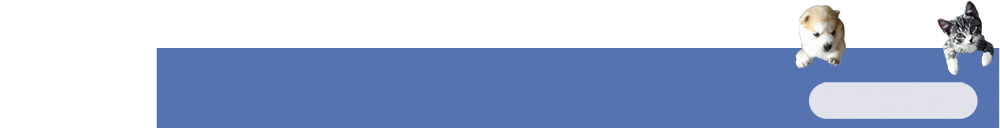
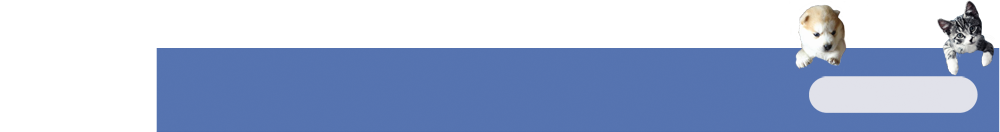
12-28 test 1
12-28 test 1

diff --git a/css/style-news.css b/css/style-news.css
@@ -93,7 +93,7 @@ html, body{
 #menu{
 	position: relative;
 	width: 980px;
-	height: 60px;
+	height: 68px;
 	margin-top: 10px;
 	padding: 10px;
 	padding-left: 0;
@@ -103,7 +103,7 @@ html, body{
 #menu #menulogo{
 	position: relative;
 	width: 128px;
-	height: 64px;
+	height: 72px;
 	margin-top: -12px;
 	margin-right: 10px;
 	padding: 0;
@@ -122,34 +122,43 @@ html, body{
 #menu #menuinterface .divoptions{
 	position: relative;
 	width: 96px;
-	height: 64px;
+	height: 72px;
 	margin-left: 4px;
-	margin-top: 4px;
+	margin-top: 0;
 	text-align: center;
 	float: left;
 }
 
 #menu .search-input2{
 	margin-left: 48px;
-	margin-top: 30px;
+	margin-top: 24px;
 	width: 96px;
 	height: 22px;
 	position: relative;
 	background-color: #e1e2ea;
+	color: #222141;
+	fontcolor: #222141;
 	border: none;
 }
 #menu #menuinterface #searchpaw{
 	margin-left: 8px;
-	margin-top: 28px;
+	margin-top: 22px;
 	position: absolute;
 	cursor: pointer;
+}
+input::-webkit-input-placeholder {
+    color: #222141;
+    font-weight: bold;
+}
+input:-moz-placeholder {
+    color: #222141;
+    font-weight: bold;
 }
 
 #content{
 	position: relative;
 	width: 1000px;
-	margin: 0;
-	padding: 0;
+	margin-top: -8px;
 	background-color: #e1e2ea;
 }
 /*
@@ -208,7 +217,7 @@ html, body{
 	border: 1px solid #ececec;
 }
 #contentRight .picsitem{
-	width: 240px;
+	width: 224px;
 	height: auto;
 	position: absolute;
 	border: 2px solid #c9cbcd;
@@ -216,12 +225,12 @@ html, body{
 	background-color: #ffffff;
 }
 #contentRight .picsitem .picsitemupper{
-	width: 240px;
+	width: 224px;
 	height: 9px;
 	position: relative;
 }
 #contentRight .picsitem .picsitemmiddle{
-	width: 240px;
+	width: 224px;
 	height: 208px auto;
 	position: relative;
 	margin-top: 10px;
@@ -234,20 +243,20 @@ html, body{
 	margin-left: 10px;
 }
 #contentRight .picsitem .picsitemmiddle .upicsback{
-	width: 240px;
+	width: 224px;
 	height: 208px;
 	position: absolute;
 	z-index: -1;
 	left: 0px;
 }
 #contentRight .picsitem .picsitemlower{
-	width: 240px;
+	width: 224px;
 	height: 89px;
 	position: relative;
 	margin-top: -4px;
 }
 #contentRight .picsitem .breakline{
-	width: 220px;
+	width: 204px;
 	height: 2px;
 	left: 10px;
 	top: 8px;
@@ -283,7 +292,7 @@ html, body{
 	font-size: 12px;
 }
 #contentRight .picsitem .picsitemlower .usersprofiles{
-	width: 224px;
+	width: 208px;
 	height: 32px;
 	position: absolute;
 	top: 16px;
@@ -297,7 +306,7 @@ html, body{
 	float: right;
 }
 #contentRight .picsitem .picsitemlower .usersprofilesupper{
-	width: 224px;
+	width: 208px;
 	height: 32px;
 	position: absolute;
 	top: 16px;
@@ -336,13 +345,13 @@ html, body{
 	position: absolute;
 }
 #contentRight .picsitem .picsitemlower .bottomfunc .feedbackpic{
-	left: 120px;
+	left: 104px;
 	width: 12px;
 	height: 12px;
 	position: absolute;
 }
 #contentRight .picsitem .picsitemlower .bottomfunc .feedback{
-	left: 136px;
+	left: 120px;
 	width: 16px;
 	height: 16px;
 	position: absolute;
@@ -350,13 +359,13 @@ html, body{
 	color: #4568b1;
 }
 #contentRight .picsitem .picsitemlower .bottomfunc .forwardpic{
-	left: 156px;
+	left: 140px;
 	width: 12px;
 	height: 12px;
 	position: absolute;
 }
 #contentRight .picsitem .picsitemlower .bottomfunc .forwardnum{
-	left: 172px;
+	left: 156px;
 	width: 16px;
 	height: 16px;
 	position: absolute;
@@ -364,13 +373,13 @@ html, body{
 	color: #4568b1;
 }
 #contentRight .picsitem .picsitemlower .bottomfunc .praisepic{
-	left: 192px;
+	left: 176px;
 	width: 12px;
 	height: 12px;
 	position: absolute;
 }
 #contentRight .picsitem .picsitemlower .bottomfunc .praise{
-	left: 208px;
+	left: 192px;
 	width: 16px;
 	height: 16px;
 	position: absolute;

diff --git a/js/news.js b/js/news.js
@@ -1,8 +1,8 @@
 var columnHeight = [];
 var itemscount = 0;
 var columns = 4;
-var marginHorizontal = 8;
-var marginVertical = 8;
+var marginHorizontal = 16;
+var marginVertical = 16;
 var picloaded = [];
 var imgs = [];
 
@@ -61,8 +61,8 @@ function arrangeStyle_bef(){
 		tempratio = (tempratio == 0 ? 2 : tempratio);
 		//整理图片大小
 		tempimg = document.getElementById("picsnb" + String(r));
-		tempimg.style.width = String(220) + "px";
-		tempimg.style.height = String(220.0 / tempratio) + "px";
+		tempimg.style.width = String(204) + "px";
+		tempimg.style.height = String(204.0 / tempratio) + "px";
 		//整理文字区
 		tpitem = document.getElementById("commentcontainer" + String(r));
 		tpiteminner = document.getElementById("commenttopic" + String(r));
@@ -72,14 +72,14 @@ function arrangeStyle_bef(){
 			tpiteminner.innerText = tptext;
 		};
 		if(r < columns){ //位于第一行
-			tempobj.style.top = "4px";
-			columnHeight[r] = tempobj.clientHeight + 4;
-			tempobj.style.left = String(6 + (r % columns) * (tempobj.clientWidth + marginHorizontal)) + "px";
+			tempobj.style.top = "24px";
+			columnHeight[r] = tempobj.clientHeight + 24;
+			tempobj.style.left = String(24 + (r % columns) * (tempobj.clientWidth + marginHorizontal)) + "px";
 		}else{ //位于第一行之下
 			//看哪一列最短
 			tempht = columnHeight.min();
 			temphtat = columnHeight.minat();
-			tempobj.style.left = String(6 + temphtat * (tempobj.clientWidth + marginHorizontal)) + "px";
+			tempobj.style.left = String(24 + temphtat * (tempobj.clientWidth + marginHorizontal)) + "px";
 			tempobj.style.top = String(columnHeight[temphtat] + marginVertical) + "px";
 			columnHeight[temphtat] += tempobj.clientHeight + marginVertical;
 		}

diff --git a/myspace.php b/myspace.php
@@ -20,15 +20,10 @@
 		if(!empty($_FILES["file1"])){
 			echo "file1";
 			if($upload_handler->upload_image($_FILES["file1"])){
-				echo "upload";				
+				//此处为上传成功标志
+				echo "upload";
 			}
 		}
-		//if(!empty($_FILES["fileuploadtext"])){
-			//echo "fileuploadtext";
-			//if($upload_handler->upload_image($_FILES["fileuploadtext"])){
-				//echo "upload";				
-			//}
-		//}
 		elseif (!empty($_POST)) {
 			if(isset($_POST['topic_form_submit'])){
 				echo "topic form submit";

diff --git a/submittest.php b/submittest.php
@@ -1,0 +1,5 @@
+<?php
+if(isset($_POST['submit'])){
+  echo $_POST['picsubmitter'];
+}
+?>
